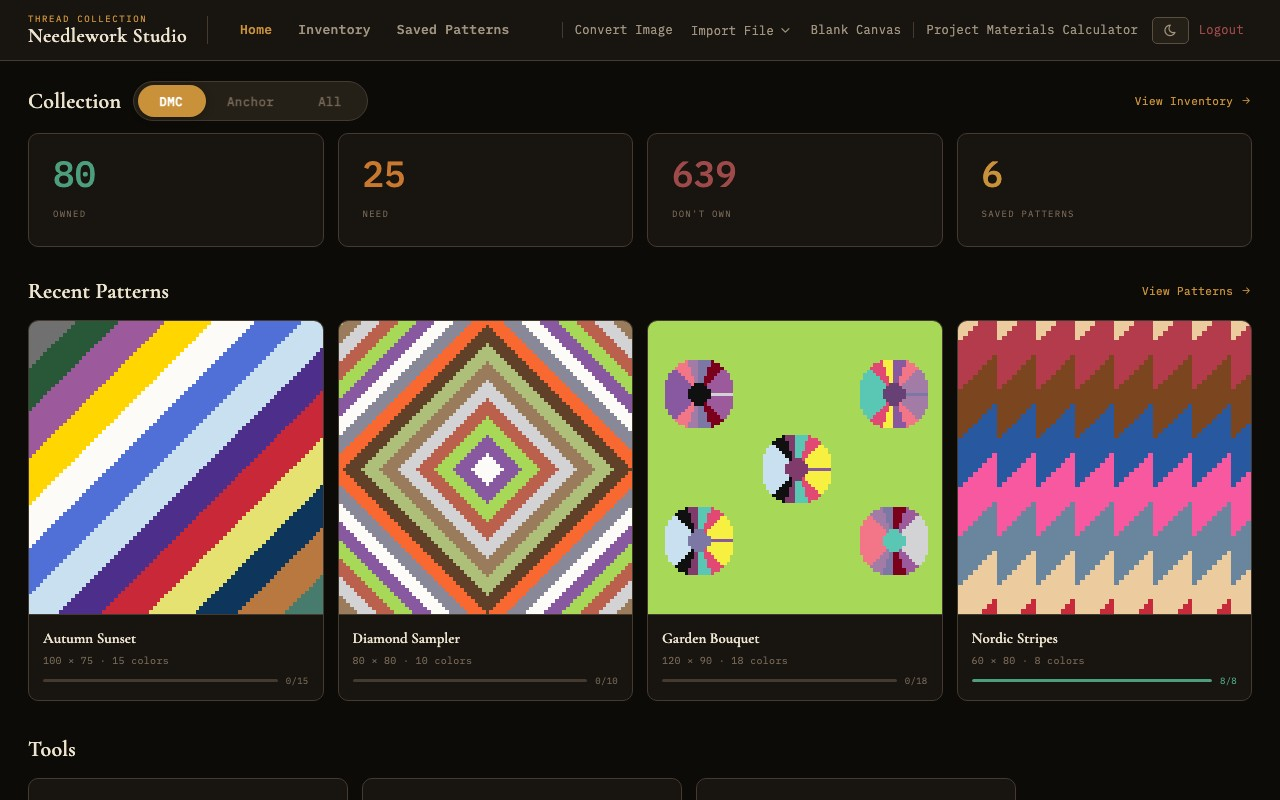
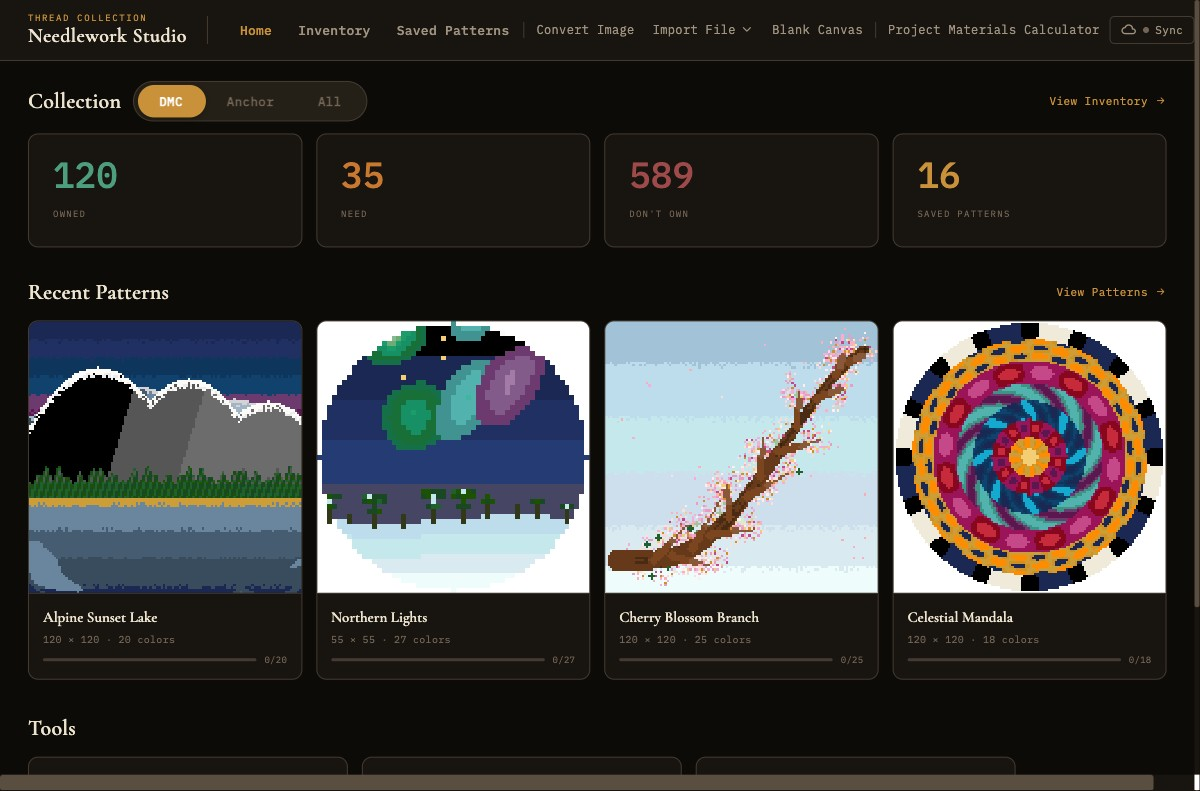
Update wiki screenshots with showcase patterns and add pattern editor images
- Replace dashboard screenshots with curated pattern showcase (Alpine Sunset Lake, Northern Lights, Cherry Blossom Branch, Celestial Mandala)
- Add separate pattern editor screenshot to pattern design wiki page
- Add pattern design view screenshot (Alpine Sunset circle in stitch view)
- Populate inventory stats in dashboard screenshots
- Update site styles and wiki pages

diff --git a/docs/css/style.css b/docs/css/style.css
@@ -160,32 +160,79 @@ html { scroll-padding-top: 80px; }
 
 /* ——— HERO ——— */
 .hero {
-    text-align: center;
     padding: 56px 24px 48px;
     border-bottom: 1px solid var(--border);
-    background: radial-gradient(ellipse at 50% 0%, rgba(200,145,58,.06) 0%, transparent 70%);
+    background:
+        radial-gradient(ellipse at 30% 40%, rgba(200,145,58,.12) 0%, transparent 70%),
+        repeating-linear-gradient(0deg, transparent, transparent 23px, rgba(200,145,58,.025) 23px, rgba(200,145,58,.025) 24px),
+        repeating-linear-gradient(90deg, transparent, transparent 23px, rgba(200,145,58,.025) 23px, rgba(200,145,58,.025) 24px);
 }
 
-.hero-logo { height: 120px; width: auto; margin-bottom: 16px; display: block; margin-left: auto; margin-right: auto; }
+[data-theme="light"] .hero {
+    background:
+        radial-gradient(ellipse at 30% 40%, rgba(138,94,24,.08) 0%, transparent 70%),
+        repeating-linear-gradient(0deg, transparent, transparent 23px, rgba(138,94,24,.055) 23px, rgba(138,94,24,.055) 24px),
+        repeating-linear-gradient(90deg, transparent, transparent 23px, rgba(138,94,24,.055) 23px, rgba(138,94,24,.055) 24px);
+}
+
+.hero-inner {
+    max-width: 1200px;
+    margin: 0 auto;
+    display: grid;
+    grid-template-columns: 1fr 1.4fr;
+    gap: 48px;
+    align-items: center;
+}
+
+.hero-text {
+    text-align: left;
+}
+
+.hero-title {
+    font-family: 'Cormorant Garamond', Georgia, serif;
+    font-size: 52px;
+    font-weight: 600;
+    line-height: 1.1;
+    margin-bottom: 16px;
+    letter-spacing: 0.5px;
+}
+
+.hero-title-accent {
+    color: var(--gold);
+}
 
 .hero-tagline {
-    font-size: 20px;
+    font-size: 19px;
     color: var(--text-muted);
-    max-width: 540px;
-    margin: 0 auto 28px;
+    max-width: 420px;
+    margin: 0 0 24px;
     font-weight: 400;
+    line-height: 1.6;
 }
 
 .hero-actions {
     display: flex;
     gap: 12px;
-    justify-content: center;
+    justify-content: flex-start;
     flex-wrap: wrap;
 }
 
+.hero-pill {
+    display: inline-block;
+    font-family: 'IBM Plex Mono', monospace;
+    font-size: 11px;
+    text-transform: uppercase;
+    letter-spacing: .08em;
+    color: var(--gold);
+    background: var(--surface);
+    border: 1px solid var(--gold-dim);
+    border-radius: 999px;
+    padding: 5px 16px;
+    margin-top: 20px;
+}
+
 .hero-screenshot-wrap {
-    max-width: 960px;
-    margin: 36px auto 0;
+    max-width: 100%;
 }
 
 .hero-screenshot {
@@ -194,6 +241,10 @@ html { scroll-padding-top: 80px; }
     border-radius: var(--r-lg);
     display: block;
     box-shadow: 0 8px 40px rgba(0,0,0,.35);
+}
+
+[data-theme="light"] .hero-screenshot {
+    box-shadow: 0 8px 32px rgba(100,70,20,.18), 0 2px 8px rgba(100,70,20,.1);
 }
 
 /* ——— BUTTONS ——— */
@@ -217,7 +268,7 @@ html { scroll-padding-top: 80px; }
 .btn-primary:hover { background: var(--gold-hover); color: var(--bg); }
 
 .btn-ghost {
-    background: transparent;
+    background: var(--surface);
     color: var(--text-muted);
     border: 1px solid var(--border-2);
 }
@@ -470,6 +521,7 @@ svg.download-icon {
     width: 240px;
     flex-shrink: 0;
     padding: 32px 24px 32px 32px;
+    background: var(--surface);
     border-right: 1px solid var(--border);
     position: sticky;
     top: 64px;
@@ -536,6 +588,29 @@ svg.download-icon {
     padding: 40px 40px 80px;
 }
 
+.wiki-breadcrumb {
+    font-family: 'IBM Plex Mono', monospace;
+    font-size: 11px;
+    color: var(--text-dim);
+    margin-bottom: 12px;
+    letter-spacing: .03em;
+}
+
+.wiki-breadcrumb a {
+    color: var(--text-muted);
+    text-decoration: none;
+    transition: color var(--t);
+}
+
+.wiki-breadcrumb a:hover {
+    color: var(--gold);
+}
+
+.wiki-breadcrumb .breadcrumb-sep {
+    margin: 0 6px;
+    color: var(--text-dim);
+}
+
 .wiki-content h1 {
     font-size: 32px;
     font-weight: 600;
@@ -549,6 +624,10 @@ svg.download-icon {
     margin-bottom: 12px;
     padding-bottom: 8px;
     border-bottom: 1px solid var(--border);
+}
+
+.wiki-content h2:first-of-type {
+    margin-top: 24px;
 }
 
 .wiki-content h3 {
@@ -591,8 +670,13 @@ svg.download-icon {
     font-size: 11px;
     color: var(--text-dim);
     text-align: center;
-    margin-top: -12px;
+    margin-top: -8px;
     margin-bottom: 24px;
+    background: var(--surface);
+    border: 1px solid var(--border);
+    border-top: none;
+    border-radius: 0 0 var(--r) var(--r);
+    padding: 8px 16px;
 }
 
 .wiki-content .callout-warning {
@@ -750,17 +834,24 @@ svg.download-icon {
 /* ——— MOBILE WIKI ——— */
 .wiki-mobile-toggle {
     display: none;
-    background: var(--surface-2);
-    border: 1px solid var(--border-2);
+    background: var(--surface);
+    border: 1px solid var(--gold-dim);
     border-radius: var(--r);
-    padding: 8px 16px;
+    padding: 10px 16px;
     cursor: pointer;
     font-family: 'IBM Plex Mono', monospace;
     font-size: 12px;
-    color: var(--text-muted);
+    color: var(--gold);
     width: 100%;
     text-align: left;
     margin-bottom: 20px;
+    letter-spacing: .04em;
+    transition: border-color var(--t), background var(--t);
+}
+
+.wiki-mobile-toggle:hover {
+    border-color: var(--gold);
+    background: var(--surface-2);
 }
 
 @media (max-width: 768px) {
@@ -781,10 +872,21 @@ svg.download-icon {
 }
 
 /* ——— RESPONSIVE ——— */
+@media (max-width: 900px) {
+    .hero-inner {
+        grid-template-columns: 1fr;
+        gap: 32px;
+    }
+    .hero-text { text-align: center; }
+    .hero-title { font-size: 40px; }
+    .hero-tagline { margin: 0 auto 24px; }
+    .hero-actions { justify-content: center; }
+}
+
 @media (max-width: 600px) {
-    .hero { padding: 48px 20px 40px; }
-    .hero-logo { height: 56px; }
-    .hero-tagline { font-size: 18px; }
+    .hero { padding: 40px 20px 32px; }
+    .hero-title { font-size: 34px; }
+    .hero-tagline { font-size: 17px; }
     .download-grid { grid-template-columns: 1fr; }
     .footer-inner { flex-direction: column; text-align: center; }
 }

diff --git a/docs/index.html b/docs/index.html
@@ -9,7 +9,7 @@
     <link rel="preconnect" href="https://fonts.googleapis.com">
     <link rel="preconnect" href="https://fonts.gstatic.com" crossorigin>
     <link href="https://fonts.googleapis.com/css2?family=Cormorant+Garamond:wght@400;600&family=IBM+Plex+Mono:wght@400;500&display=swap" rel="stylesheet">
-    <link rel="stylesheet" href="css/style.css">
+    <link rel="stylesheet" href="css/style.css?v=2">
     <script src="js/main.js?v=3"></script>
 </head>
 <body>
@@ -47,31 +47,23 @@
 
 <!-- Hero -->
 <section class="hero">
-    <svg xmlns="http://www.w3.org/2000/svg" viewBox="0 0 300 180" class="hero-logo">
-        <g transform="translate(118, 0) scale(2)">
-            <rect x="8" y="4" width="16" height="24" rx="3" fill="#c8913a"/>
-            <rect x="6" y="4" width="20" height="4" rx="1.5" fill="#dfaa52"/>
-            <rect x="6" y="24" width="20" height="4" rx="1.5" fill="#dfaa52"/>
-            <line x1="10" y1="10" x2="22" y2="10" stroke="#6b4c1a" stroke-width="1.5"/>
-            <line x1="10" y1="13" x2="22" y2="13" stroke="#6b4c1a" stroke-width="1.5"/>
-            <line x1="10" y1="16" x2="22" y2="16" stroke="#6b4c1a" stroke-width="1.5"/>
-            <line x1="10" y1="19" x2="22" y2="19" stroke="#6b4c1a" stroke-width="1.5"/>
-            <line x1="10" y1="22" x2="22" y2="22" stroke="#6b4c1a" stroke-width="1.5"/>
-        </g>
-        <text x="150" y="110" font-family="'Cormorant Garamond', serif" font-size="42" font-weight="600" fill="var(--text)" letter-spacing="1" text-anchor="middle">Needlework</text>
-        <text x="150" y="155" font-family="'Cormorant Garamond', serif" font-size="42" font-weight="600" fill="var(--gold)" letter-spacing="1" text-anchor="middle">Studio</text>
-    </svg>
-    <p class="hero-tagline">A self-hosted cross-stitch pattern management and design tool. Track your thread inventory, design patterns, and manage stitching projects.</p>
-    <div class="hero-actions">
-        <a href="https://github.com/GreenglassT/NeedleworkStudio/releases/latest" class="btn btn-primary hero-download">Download Latest Release</a>
-        <a href="#downloads" class="btn btn-ghost">All Downloads</a>
-    </div>
-    <div class="hero-screenshot-wrap">
-        <img src="img/pattern-viewer-dark.jpg"
-             data-dark="img/pattern-viewer-dark.jpg"
-             data-light="img/pattern-viewer-light.jpg"
-             alt="Needlework Studio pattern viewer showing a cross-stitch chart"
-             class="screenshot hero-screenshot">
+    <div class="hero-inner">
+        <div class="hero-text">
+            <h1 class="hero-title">Needlework<br><span class="hero-title-accent">Studio</span></h1>
+            <p class="hero-tagline">Design, stitch, and track your cross-stitch projects — no cloud account needed.</p>
+            <div class="hero-actions">
+                <a href="https://github.com/GreenglassT/NeedleworkStudio/releases/latest" class="btn btn-primary hero-download">Download Latest Release</a>
+                <a href="#downloads" class="btn btn-ghost">All Downloads</a>
+            </div>
+            <span class="hero-pill">Free &amp; Open Source</span>
+        </div>
+        <div class="hero-screenshot-wrap">
+            <img src="img/pattern-viewer-dark.jpg"
+                 data-dark="img/pattern-viewer-dark.jpg"
+                 data-light="img/pattern-viewer-light.jpg"
+                 alt="Needlework Studio pattern viewer showing a cross-stitch chart"
+                 class="screenshot hero-screenshot">
+        </div>
     </div>
 </section>
 

diff --git a/docs/wiki/pattern-design.html b/docs/wiki/pattern-design.html
@@ -74,11 +74,12 @@
 
     <!-- Content -->
     <main class="wiki-content">
+        <nav class="wiki-breadcrumb"><a href="index.html">Wiki</a><span class="breadcrumb-sep">/</span>Pattern Design</nav>
         <h1>Pattern Design</h1>
         <p class="page-sub">Create cross-stitch patterns from images or from scratch using a full-featured design editor.</p>
 
-        <img src="../img/pattern-editor-dark.jpg" data-dark="../img/pattern-editor-dark.jpg" data-light="../img/pattern-editor-light.jpg" alt="Full pattern editor with toolbar and canvas" class="screenshot">
-        <p class="screenshot-caption">The pattern editor with drawing tools, stitch types, and color legend</p>
+        <img src="../img/pattern-design-dark.jpg" data-dark="../img/pattern-design-dark.jpg" data-light="../img/pattern-design-light.jpg" alt="Pattern design view with source image, controls, and generated chart" class="screenshot">
+        <p class="screenshot-caption">The image-to-pattern converter with source image, dimension and color controls, and generated chart preview</p>
 
         <h2>Creating Patterns</h2>
         <p>Needlework Studio offers two ways to start a new pattern, both accessible from the <strong>Create</strong> menu in the navigation bar.</p>
@@ -100,6 +101,8 @@
         <p>The Blank Canvas option creates an empty grid at custom dimensions that you specify. Enter the desired width and height in stitches to create the canvas. This is ideal for designing patterns entirely from scratch - lettering, geometric designs, borders, or original artwork.</p>
 
         <h2>Drawing Tools</h2>
+        <img src="../img/pattern-editor-dark.jpg" data-dark="../img/pattern-editor-dark.jpg" data-light="../img/pattern-editor-light.jpg" alt="Pattern editor with drawing toolbar and stitch types" class="screenshot">
+        <p class="screenshot-caption">The pattern editor in edit mode with drawing tools, stitch types, and color key</p>
         <p>The pattern editor provides <strong>12 tools</strong> in the toolbar. Select a tool by clicking its icon or pressing the corresponding keyboard shortcut.</p>
 
         <h3>Hand / Pan</h3>

diff --git a/docs/wiki/import-export.html b/docs/wiki/import-export.html
@@ -74,6 +74,7 @@
 
     <!-- Content -->
     <main class="wiki-content">
+        <nav class="wiki-breadcrumb"><a href="index.html">Wiki</a><span class="breadcrumb-sep">/</span>Import &amp; Export</nav>
         <h1>Import &amp; Export</h1>
         <p class="page-sub">Bring patterns into Needlework Studio from multiple file formats and export them for printing, sharing, or use in other software.</p>
 

diff --git a/docs/wiki/deployment.html b/docs/wiki/deployment.html
@@ -74,6 +74,7 @@
 
     <!-- Content -->
     <main class="wiki-content">
+        <nav class="wiki-breadcrumb"><a href="index.html">Wiki</a><span class="breadcrumb-sep">/</span>Deployment</nav>
         <h1>Deployment</h1>
         <p class="page-sub">Production deployment strategies including reverse proxy configuration, HTTPS, systemd services, and security hardening.</p>
 

diff --git a/docs/wiki/desktop-sync.html b/docs/wiki/desktop-sync.html
@@ -74,6 +74,7 @@
 
     <!-- Content -->
     <main class="wiki-content">
+        <nav class="wiki-breadcrumb"><a href="index.html">Wiki</a><span class="breadcrumb-sep">/</span>Desktop Sync</nav>
         <h1>Desktop Sync</h1>
         <p class="page-sub">Synchronize your patterns and thread inventory between the desktop app and a self-hosted Needlework Studio server.</p>
 

diff --git a/docs/wiki/project-management.html b/docs/wiki/project-management.html
@@ -74,6 +74,7 @@
 
     <!-- Content -->
     <main class="wiki-content">
+        <nav class="wiki-breadcrumb"><a href="index.html">Wiki</a><span class="breadcrumb-sep">/</span>Project Management</nav>
         <h1>Project Management</h1>
         <p class="page-sub">Organize your pattern library, track stitching progress, and plan materials for your projects.</p>
 

diff --git a/docs/wiki/installation.html b/docs/wiki/installation.html
@@ -74,6 +74,7 @@
 
     <!-- Content -->
     <main class="wiki-content">
+        <nav class="wiki-breadcrumb"><a href="index.html">Wiki</a><span class="breadcrumb-sep">/</span>Installation</nav>
         <h1>Installation</h1>
         <p class="page-sub">Install Needlework Studio as a desktop application, a Docker container, or a manual Python deployment.</p>
 

diff --git a/docs/wiki/administration.html b/docs/wiki/administration.html
@@ -74,6 +74,7 @@
 
     <!-- Content -->
     <main class="wiki-content">
+        <nav class="wiki-breadcrumb"><a href="index.html">Wiki</a><span class="breadcrumb-sep">/</span>Administration</nav>
         <h1>Administration</h1>
         <p class="page-sub">Manage users, back up your data, and configure the application through environment variables.</p>
 

diff --git a/docs/wiki/pattern-viewer.html b/docs/wiki/pattern-viewer.html
@@ -74,6 +74,7 @@
 
     <!-- Content -->
     <main class="wiki-content">
+        <nav class="wiki-breadcrumb"><a href="index.html">Wiki</a><span class="breadcrumb-sep">/</span>Pattern Viewer</nav>
         <h1>Pattern Viewer</h1>
         <p class="page-sub">View, navigate, and track progress on your cross-stitch patterns with multiple display modes.</p>
 

diff --git a/docs/wiki/thread-inventory.html b/docs/wiki/thread-inventory.html
@@ -74,6 +74,7 @@
 
     <!-- Content -->
     <main class="wiki-content">
+        <nav class="wiki-breadcrumb"><a href="index.html">Wiki</a><span class="breadcrumb-sep">/</span>Thread Inventory</nav>
         <h1>Thread Inventory</h1>
         <p class="page-sub">Browse, search, and track your embroidery thread collection across DMC and Anchor brands.</p>
 

diff --git a/docs/wiki/faq.html b/docs/wiki/faq.html
@@ -74,6 +74,7 @@
 
     <!-- Content -->
     <main class="wiki-content">
+        <nav class="wiki-breadcrumb"><a href="index.html">Wiki</a><span class="breadcrumb-sep">/</span>FAQ &amp; Troubleshooting</nav>
         <h1>FAQ &amp; Troubleshooting</h1>
         <p class="page-sub">Answers to common questions and solutions for issues you may run into.</p>
 
